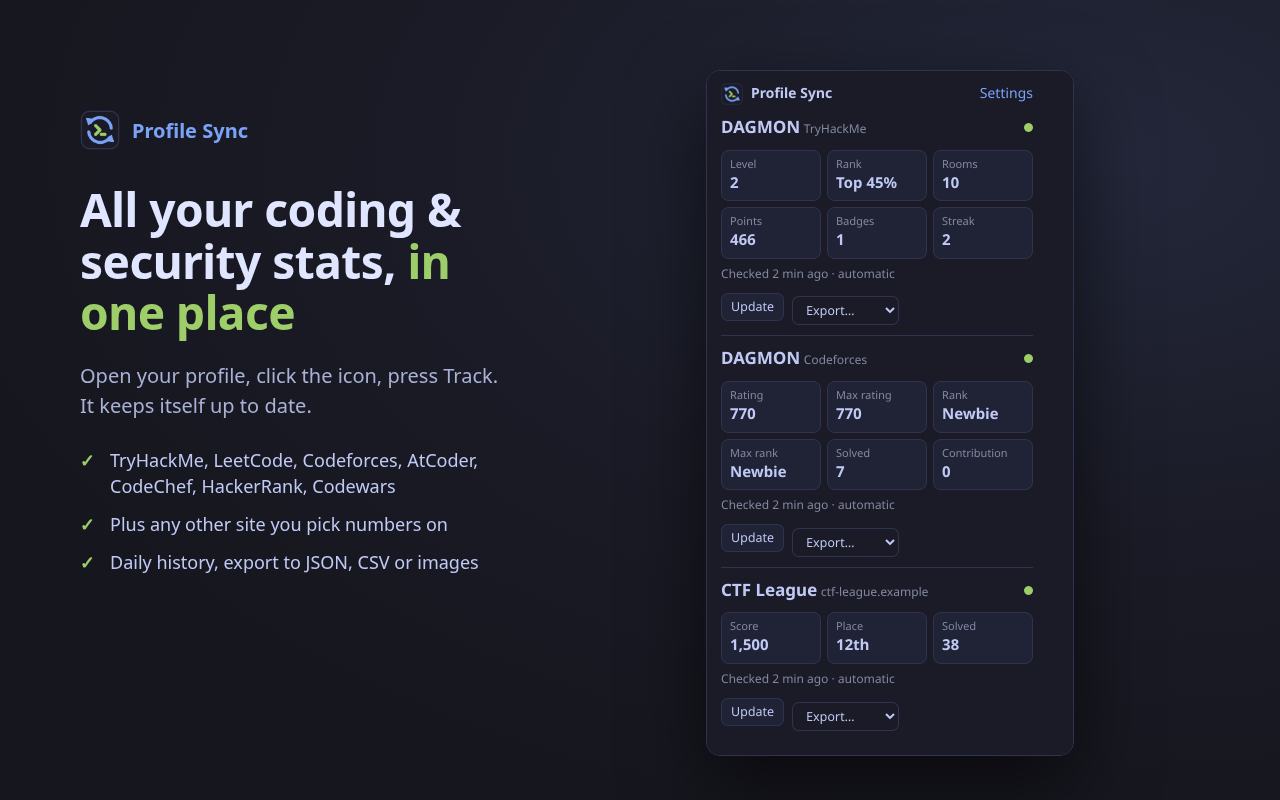
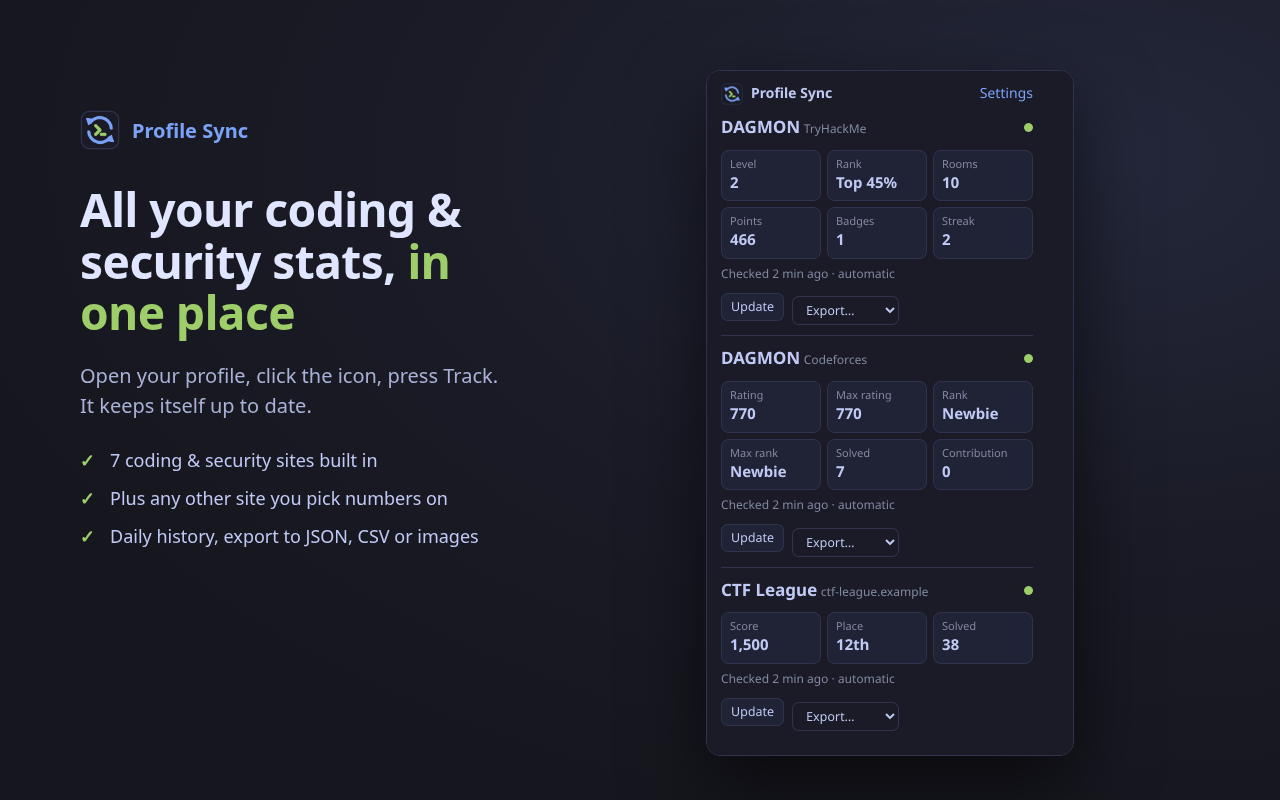
Store listing: no brand-name lists (Chrome keyword-spam rejection); generic webhook wording

Changed region(s): [[0.0625, 0.5625, 0.375, 0.7188]]

diff --git a/src/options.html b/src/options.html
@@ -96,7 +96,7 @@
       <h2>Webhook</h2>
       <label class="switch"><input type="checkbox" id="webhook-enabled"><span></span></label>
     </div>
-    <p class="muted">Sends new stats as JSON to any address: your website, a server, Zapier, Make or n8n. Sent only when stats change.</p>
+    <p class="muted">Sends new stats as JSON to any address: your website, a server or an automation tool. Sent only when stats change.</p>
     <div class="body stack">
       <label>Address <input id="webhook-url" placeholder="https://example.com/thm" spellcheck="false"></label>
       <label>Signing secret (optional) <input id="webhook-secret" type="password" placeholder="adds an X-Profile-Sync-Signature header" autocomplete="new-password"></label>

diff --git a/docs/store-listing.md b/docs/store-listing.md
@@ -14,34 +14,37 @@ Track your stats on TryHackMe, LeetCode, Codeforces and more, or any site, and s
 
 Keep your coding and security progress in one place, and show it wherever you want.
 
-Profile Sync reads your public stats from the sites you learn on and keeps them up to date:
+Profile Sync reads your public profile stats from the learning sites you use and keeps them up to date. Seven sites are built in:
 • TryHackMe: level, rank, rooms, points, badges, streak
-• LeetCode: problems solved (easy / medium / hard), ranking, contest rating
-• Codeforces: rating, max rating, rank, solved problems
-• AtCoder: rating, highest rating, rank
-• CodeChef: rating, stars, global rank, solved problems
-• HackerRank: problems solved, badges, stars
-• Codewars: rank, honor, leaderboard position, kata completed
-• Any other site: pick the numbers you care about on the page, and Profile Sync keeps reading them.
+• LeetCode: problems solved, ranking, contest rating
+• Codeforces: rating, rank, solved problems
+• AtCoder: rating and rank
+• CodeChef: rating, stars and solved problems
+• HackerRank: problems solved and badges
+• Codewars: rank, honor and completed kata
 
-Then send your stats where you want them:
-• GitHub: a stats file and a good-looking card image for your profile README, in your own repo
-• Webhooks: JSON to your website, server, Zapier, Make or n8n, with an optional signature
-• Discord: a message in your channel when you level up or solve more problems
+On any other site, pick the numbers you care about on the page, and Profile Sync keeps reading them.
+
+Send your stats where you want them:
+• Your GitHub repository: a stats file and a card image for your profile README
+• A webhook: JSON to your own site or automation tool, optionally signed
+• A Discord channel: a message when your stats change
 • Export: JSON, CSV history, or the card as SVG or PNG
 
 How to use it:
-1. Open your profile page on a supported site and click the icon, then Track.
+1. Open your profile page on a supported site, click the icon, then Track.
 2. On any other site, click the icon and choose "Pick numbers on this page".
-3. In Settings, turn on GitHub, a webhook or Discord.
+3. In Settings, turn on the outputs you want.
 
 Private by design:
-• No access to any website at install. It only reads the tab you're on after you click its icon.
-• Access to a site is asked for only when you turn on automatic updates for that site.
+• No access to any website at install. It reads the tab you're on only after you click its icon.
+• Access to a site is requested only when you turn on automatic updates for it.
 • Your data stays in your browser and goes only to the places you set up. No analytics, no tracking, no servers of our own.
 • Open source: https://github.com/DAGMON-Z/profile-sync
 
-Profile Sync is independent and not affiliated with TryHackMe, LeetCode, Codeforces, AtCoder, CodeChef, HackerRank, Codewars, GitHub or Discord.
+Profile Sync is an independent project and is not affiliated with or endorsed by the sites it supports.
+
+> Chrome rejected an earlier version for "keyword spam" (Yellow Argon): don't list many site or brand names in a row, for example in a disclaimer.
 
 ## Category
 
